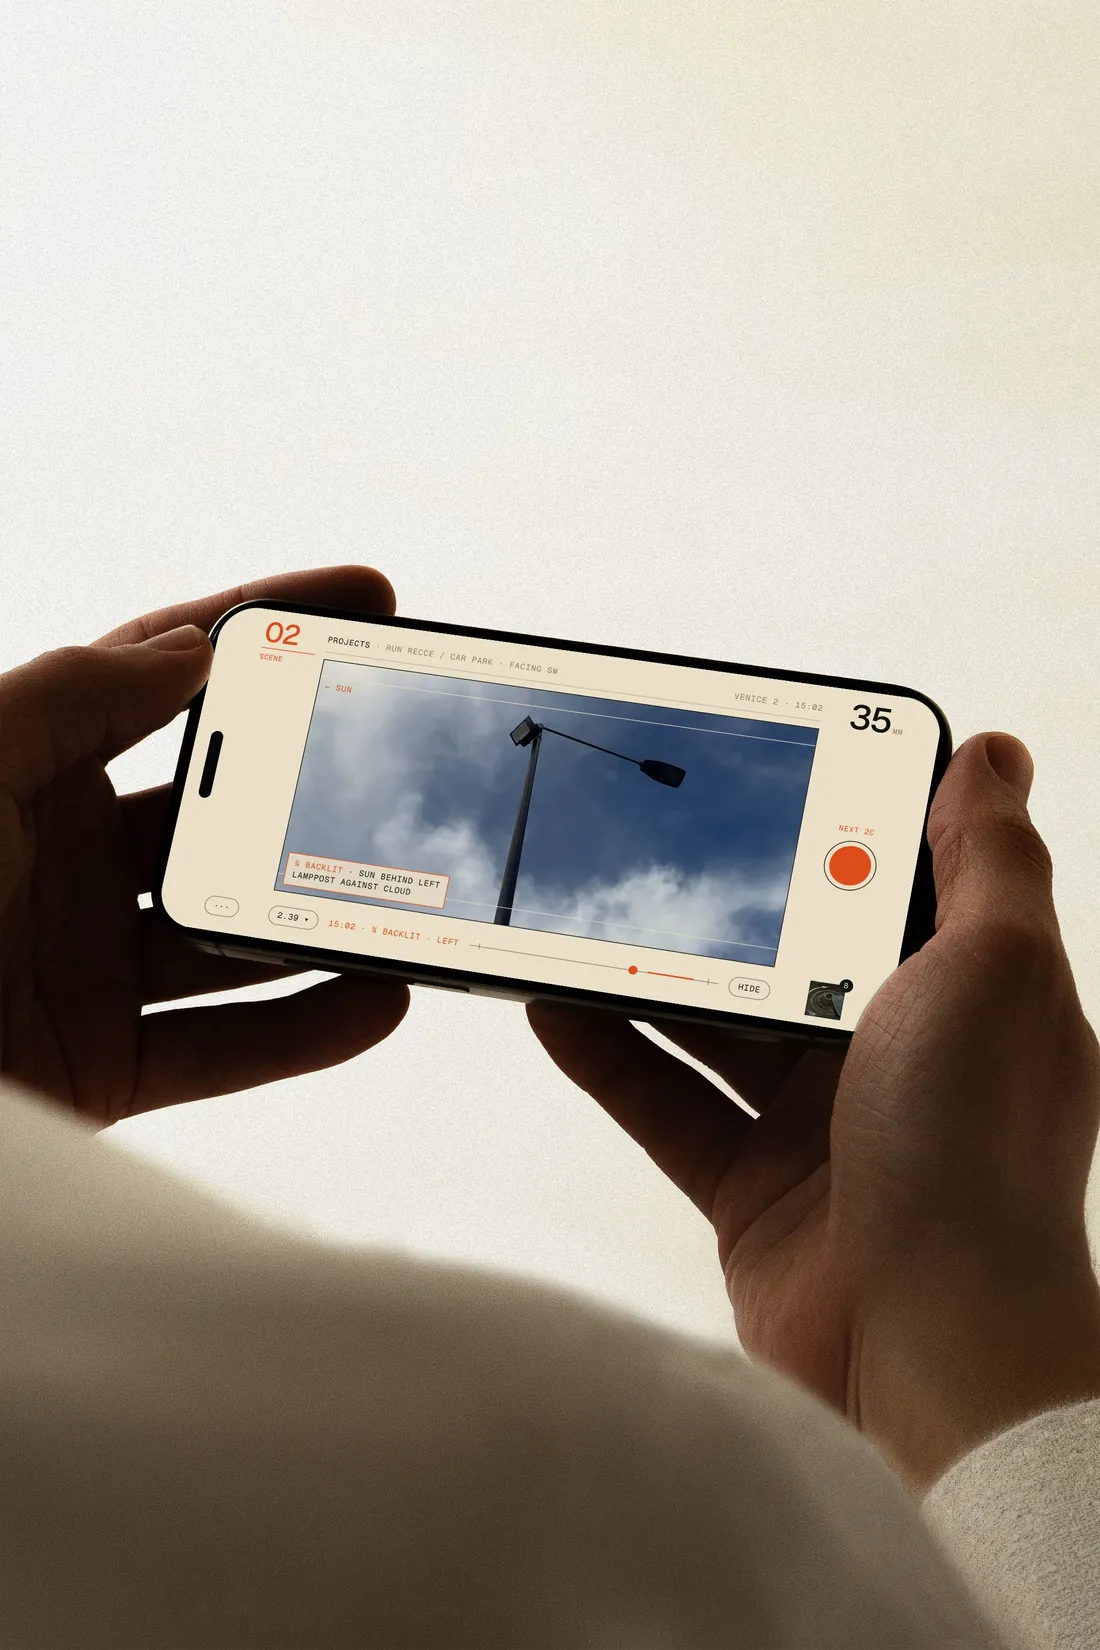
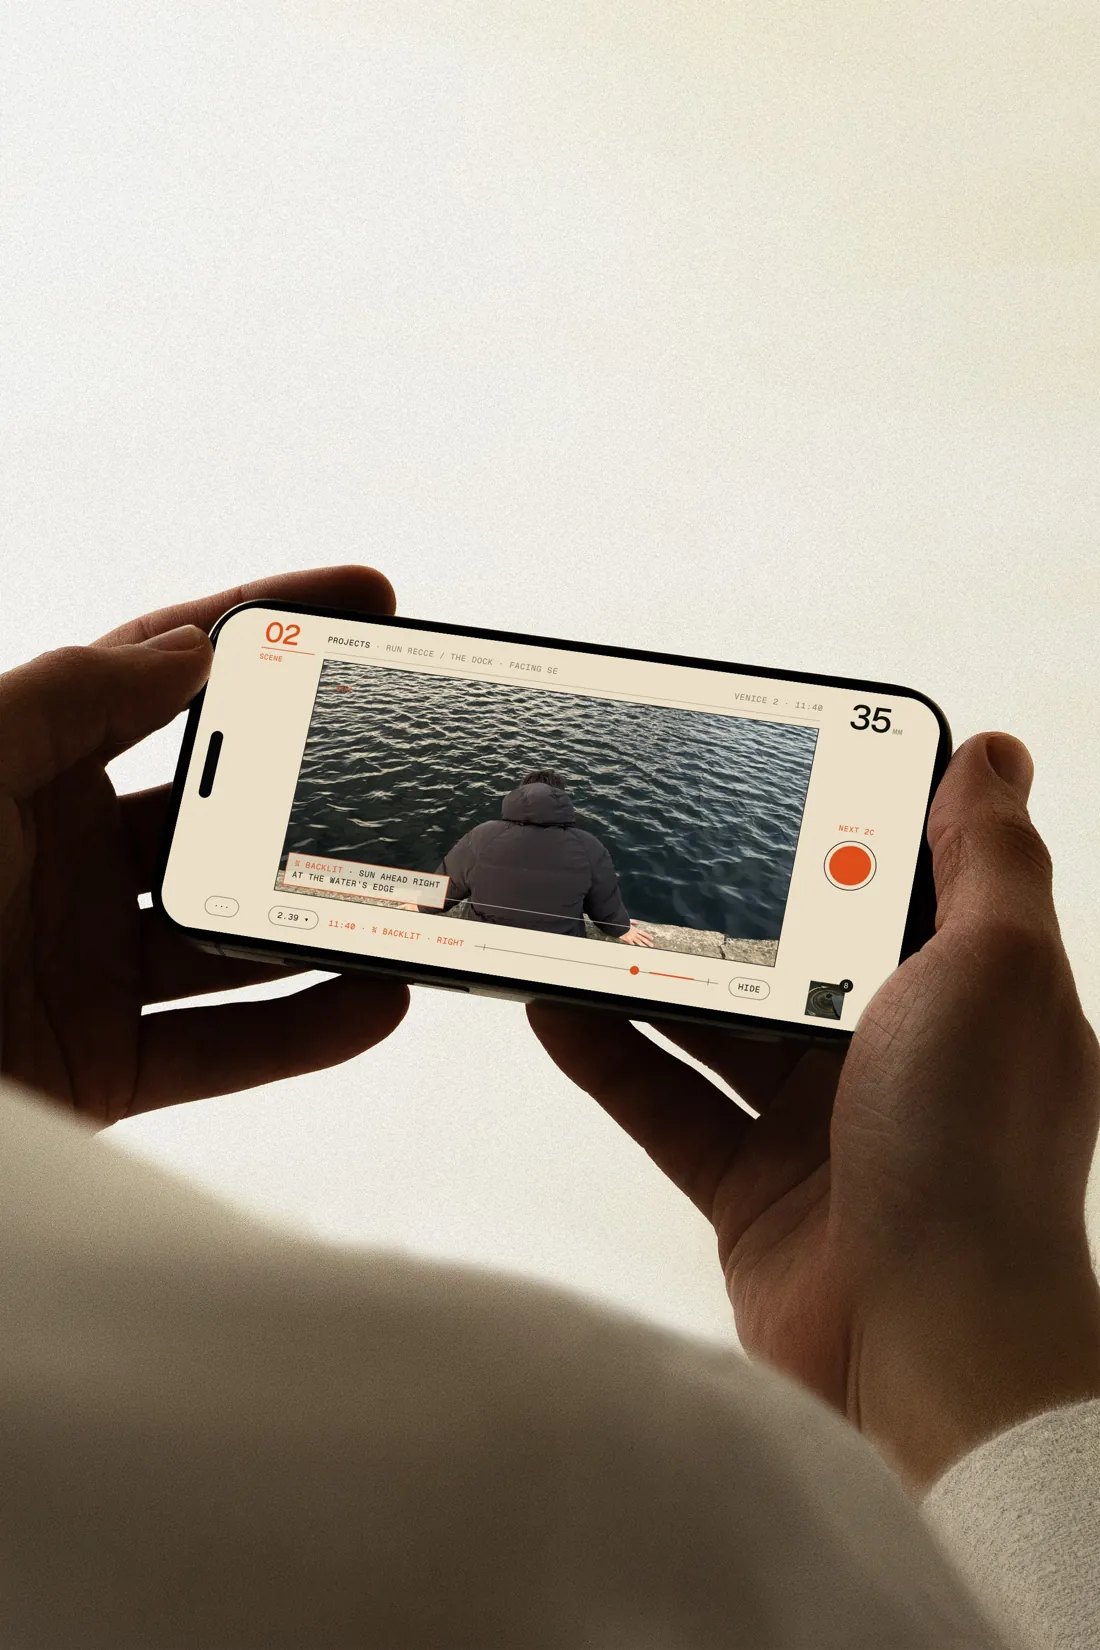
O&S preview: more mockup variety, Simple/Detailed on phones (#278)
* Preview: Out & Scout site in the 1.1 paper look

Claude-Session: https://claude.ai/code/session_01WU34tcMVhkrTaHNpy6ux3Z

* Out & Scout 1.1 site preview: plain scroll, Elliot's copy, real recce stills with faces blurred

Claude-Session: https://claude.ai/code/session_01WU34tcMVhkrTaHNpy6ux3Z

* Out & Scout preview: use only the 15 recce photos Elliot sent

Claude-Session: https://claude.ai/code/session_01WU34tcMVhkrTaHNpy6ux3Z

* Out & Scout preview: onboarding layout, Simple/Detailed wipe, hero still, app loops, hotspots

Claude-Session: https://claude.ai/code/session_01WU34tcMVhkrTaHNpy6ux3Z

* Out & Scout preview: sleeker pass (no outlines, soft screens, dot rail, dark tips)

Claude-Session: https://claude.ai/code/session_01WU34tcMVhkrTaHNpy6ux3Z

* O&S 1.1 preview: no hero photo or tap dots, slow scroll camera

Claude-Session: https://claude.ai/code/session_01WU34tcMVhkrTaHNpy6ux3Z

* O&S preview: Apple-style product page (mockup shots, pinned phone plays with scroll)

Claude-Session: https://claude.ai/code/session_01WU34tcMVhkrTaHNpy6ux3Z

* O&S preview: water's-edge camera mockup, Simple/Detailed on two phones

Claude-Session: https://claude.ai/code/session_01WU34tcMVhkrTaHNpy6ux3Z

---------

Changed region(s): [[0.2473, 0.4018, 0.7418, 0.5873]]

diff --git a/preview/out-and-scout-12/index.html b/preview/out-and-scout-12/index.html
@@ -99,11 +99,9 @@ h1,h2,h3{font-family:var(--num);font-weight:600;margin:0;text-wrap:balance}
 .head .lab{display:block;margin-bottom:16px}
 
 /* Simple or Detailed */
-.doc{display:grid;justify-items:center}
+.doc{display:grid;justify-items:center;text-align:center}
 /* 04: the same page, Simple on the left, Detailed on the right; drag the line */
-.doc .wipe{position:relative;width:min(100%,600px);min-width:min(100%,320px);text-align:left;justify-self:center;margin-top:34px;container-type:inline-size;touch-action:pan-y;user-select:none;-webkit-user-select:none;cursor:ew-resize}
-.wipe .pg{--u:calc(100cqw / 440);position:relative;background:#FBFAF6;box-shadow:0 1px 0 var(--line),0 24px 50px -28px rgba(21,21,19,.35);aspect-ratio:440/470;overflow:hidden;padding:calc(var(--u)*22) calc(var(--u)*22) 0;font-size:calc(var(--u)*9.5);line-height:1.35;color:var(--ink)}
-.wipe .pg.det{position:absolute;inset:0;clip-path:inset(0 0 0 var(--x,50%))}
+.pv .pg{text-align:left;--u:calc(100cqw / 440);position:relative;background:#FBFAF6;box-shadow:0 1px 0 var(--line),0 24px 50px -28px rgba(21,21,19,.35);aspect-ratio:440/470;overflow:hidden;padding:calc(var(--u)*22) calc(var(--u)*22) 0;font-size:calc(var(--u)*9.5);line-height:1.35;color:var(--ink)}
 .pg .hd{display:flex;justify-content:space-between;align-items:baseline;font-size:calc(var(--u)*8);letter-spacing:.08em;text-transform:uppercase;color:var(--grey)}
 .pg .hd b{font:400 calc(var(--u)*12) var(--num);letter-spacing:-.02em;text-transform:none;color:var(--ink)}
 .pg .tt{display:flex;align-items:flex-end;gap:calc(var(--u)*12);margin-top:calc(var(--u)*12);padding-bottom:calc(var(--u)*6);border-bottom:calc(var(--u)*1.2) solid var(--sun)}
@@ -126,15 +124,38 @@ h1,h2,h3{font-family:var(--num);font-weight:600;margin:0;text-wrap:balance}
 .pg .rw .bl .tm{font-variant-numeric:tabular-nums;font-size:calc(var(--u)*10.5)}
 .pg .chip{border:calc(var(--u)*.8) solid var(--sun);color:var(--sun);padding:calc(var(--u)*1) calc(var(--u)*4);font-size:calc(var(--u)*7.5);letter-spacing:.06em;text-transform:uppercase}
 .pg .fade{position:absolute;left:0;right:0;bottom:0;height:calc(var(--u)*46);background:linear-gradient(rgba(251,250,246,0),#FBFAF6 85%)}
-.wipe .tag{position:absolute;top:-28px;font:400 11px var(--mono);letter-spacing:.1em;text-transform:uppercase;color:var(--grey);transition:color .2s}
-.wipe .tag.l{left:0}.wipe .tag.r{right:0}
-.wipe .tag.on{color:var(--ink)}
-.wipe .bar{position:absolute;top:-8px;bottom:-8px;left:var(--x,50%);width:0;border-left:1.5px solid var(--sun);z-index:3}
-.wipe .knob{position:absolute;top:50%;left:0;width:44px;height:44px;margin:-22px 0 0 -22px;border-radius:50%;background:var(--sun);color:#fff;display:grid;place-items:center;font:500 14px var(--mono);box-shadow:0 6px 18px -6px rgba(226,83,31,.6);cursor:ew-resize}
-.wipe .knob:focus-visible{outline:2px solid var(--ink);outline-offset:3px}
 
-.wipe .pg{border-radius:6px}
-.wipe .knob{width:38px;height:38px;margin:-19px 0 0 -19px;font-size:12px}
+/* Simple or Detailed: the same recce on two phones (side by side on a wide screen, a switch on a phone) */
+.seg{display:inline-flex;gap:2px;padding:3px;border-radius:99px;background:rgba(21,21,19,.07);margin-bottom:28px}
+.seg button{appearance:none;border:0;background:none;font:500 14px var(--num);letter-spacing:-.01em;color:#55534d;padding:8px 18px;border-radius:99px;cursor:pointer;transition:background .25s,color .25s,box-shadow .25s}
+.seg button[aria-selected="true"]{background:var(--card);color:var(--ink);box-shadow:0 1px 3px rgba(21,21,19,.15)}
+.pair{display:grid;grid-template-columns:repeat(2,minmax(0,360px));gap:clamp(28px,5vw,72px);justify-content:center}
+.pp{margin:0;display:grid;gap:16px;justify-items:center;transition:opacity .5s,transform .7s var(--e)}
+.pp .lab{color:var(--ink)}
+.pph{position:relative;width:100%;aspect-ratio:1179/2556;border-radius:14%/6.5%;background:#1b1b1a;padding:3.2%;
+  box-shadow:inset 0 0 0 1.5px #5d5b56,inset 0 0 0 3px #111,0 0 0 1px #a7a49d,0 50px 80px -50px rgba(21,21,19,.55),0 20px 34px -26px rgba(21,21,19,.3)}
+.pph .di{position:absolute;top:4.6%;left:50%;width:30%;height:3.4%;transform:translateX(-50%);border-radius:99px;background:#000;z-index:3}
+.pph .ps{position:relative;width:100%;height:100%;border-radius:11.5%/5.3%;overflow:hidden;background:var(--paper);display:grid;grid-template-rows:auto auto 1fr auto;container-type:inline-size}
+.ps .sb{display:flex;justify-content:space-between;align-items:center;padding:4.2cqw 8cqw 0;height:13cqw;font:600 4.2cqw var(--num);letter-spacing:-.01em}
+.ps .sb span{font-size:2.6cqw;letter-spacing:.1em}
+.ps .ab{display:grid;grid-template-columns:1fr auto 1fr;align-items:center;padding:3cqw 5cqw;border-bottom:1px solid var(--line);font:400 3.2cqw var(--mono);letter-spacing:.04em;text-transform:uppercase;color:var(--grey)}
+.ps .ab b{font-weight:400;color:var(--ink)}
+.ps .ab .sh{justify-self:end;color:var(--sun);font-size:4cqw}
+.ps .pv{background:var(--tint);padding:5cqw 4cqw;overflow:hidden}
+.ps .pv .pg{aspect-ratio:auto;padding-bottom:calc(var(--u)*8);box-shadow:0 1px 0 var(--line),0 12px 24px -16px rgba(21,21,19,.3);border-radius:2px}
+.ps .pv .pg .fade{display:none}
+.ps .ft{padding:4cqw 5cqw 7cqw;background:var(--paper)}
+.ps .go{display:block;text-align:center;background:var(--sun);color:#fff;font:400 3.4cqw var(--mono);letter-spacing:.1em;text-transform:uppercase;padding:3.6cqw 0}
+.pv{container-type:inline-size}
+.pg{--u:calc(100cqw / 440)}
+@media (min-width:821px){.seg{display:none}}
+@media (max-width:820px){.pair{grid-template-columns:minmax(0,320px)}.pp:not(.on){display:none}.pp .lab{display:none}}
+.ps .pn{font:400 2.6cqw var(--mono);letter-spacing:.1em;color:var(--grey);text-align:center;padding:3cqw 0}
+.ps .pg2{background:#FBFAF6;padding:5cqw;box-shadow:0 1px 0 var(--line),0 12px 24px -16px rgba(21,21,19,.3);border-radius:2px}
+.ps .pg2 .hd{display:flex;justify-content:space-between;font:400 2.4cqw var(--mono);letter-spacing:.1em;text-transform:uppercase;color:var(--grey);margin-bottom:3cqw}
+.ps .pg2 .gr{display:grid;grid-template-columns:1fr 1fr;gap:2.4cqw}
+.ps .pg2 .gr span{aspect-ratio:4/3;background:var(--tint) center/cover}
+
 
 /* tiles */
 .bento{display:grid;grid-template-columns:repeat(6,minmax(0,1fr));gap:14px}
@@ -200,7 +221,7 @@ footer nav{display:flex;gap:18px}
 
 <section class="sec wrap" id="summary">
   <div class="max">
-    <div class="head rv"><span class="lab">Summary</span><h2>Detailed or simple,<br>you choose.</h2><p>Our summary document is made to be detailed or simple, whatever the job needs. Drag to compare.</p></div>
+    <div class="head rv"><span class="lab">Summary</span><h2>Detailed or simple,<br>you choose.</h2><p>Our summary document is made to be detailed or simple, whatever the job needs.</p></div>
     <div class="doc rv" id="doc"></div>
   </div>
 </section>
@@ -276,26 +297,18 @@ function DOC(){
     return '<div class="pg'+(det?' det':'')+'"'+(det?'':' aria-hidden="false"')+'><div class="hd"><b>Out &amp; Sc&middot;out</b><span>Run recce · '+(det?'Detailed':'Simple')+'</span></div>'+
       '<div class="tt"><span class="nn">01</span><span class="nm"><b>Docks</b><span class="k">18 Nov 2026 · Royal Docks'+(det?' · 51.5055N 0.0300E':'')+'</span></span></div>'+
       '<div class="band">'+band+'</div><div class="rows">'+rows+'</div><div class="fade"></div></div>';}
-  return '<div class="wipe" id="wipe" style="--x:50%"><span class="tag l">Simple</span><span class="tag r on">Detailed</span>'+page(false)+page(true)+
-    '<div class="bar"><span class="knob" role="slider" tabindex="0" aria-label="Drag to compare the Simple and Detailed summary" aria-valuemin="0" aria-valuemax="100" aria-valuenow="50">‹›</span></div></div>';
+  function ph(det){var nm=det?"Detailed":"Simple";return '<figure class="pp'+(det?'':' on')+'" data-k="'+nm+'"><div class="pph"><i class="di"></i><div class="ps">'+
+    '<div class="sb"><b>12:19</b><span>●●● ▮</span></div><div class="ab"><span>‹ Export</span><b>Docks · '+nm+'.pdf</b><span class="sh">↑</span></div>'+
+    '<div class="pv">'+page(det)+'<div class="pn">1 / 2</div><div class="pg2"><div class="hd"><span>Photos</span><span>'+nm+'</span></div><div class="gr">'+["1A","3A","5A","47A"].map(function(n){return '<span style="background-image:url('+SRC("sum-"+n)+')"></span>';}).join("")+'</div></div></div><div class="ft"><span class="go">Send '+nm+' PDF</span></div></div></div><figcaption class="lab">'+nm+'</figcaption></figure>';}
+  return '<div class="seg" role="tablist" aria-label="Summary style"><button role="tab" aria-selected="true" data-k="Simple">Simple</button><button role="tab" aria-selected="false" data-k="Detailed">Detailed</button></div><div class="pair">'+ph(false)+ph(true)+'</div>';
 }
 (function(){
-  var w=document.getElementById("wipe");if(!w)return;var k=w.querySelector(".knob"),tl=w.querySelector(".tag.l"),tr=w.querySelector(".tag.r"),x=50,drag=false,touched=false;
-  function set(v){x=Math.max(0,Math.min(100,v));w.style.setProperty("--x",x+"%");k.setAttribute("aria-valuenow",Math.round(x));tl.classList.toggle("on",x>55);tr.classList.toggle("on",x<45);}
-  function at(e){var r=w.getBoundingClientRect();set((e.clientX-r.left)/r.width*100);}
-  w.addEventListener("pointerdown",function(e){drag=true;touched=true;at(e);});
-  window.addEventListener("pointermove",function(e){if(drag)at(e);});
-  window.addEventListener("pointerup",function(){drag=false;});
-  k.addEventListener("keydown",function(e){if(e.key==="ArrowLeft"){set(x-5);e.preventDefault();}if(e.key==="ArrowRight"){set(x+5);e.preventDefault();}touched=true;});
-  /* one gentle sweep the first time it comes into view, so it reads as draggable */
-  if("IntersectionObserver" in window&&!matchMedia("(prefers-reduced-motion:reduce)").matches){
-    var io=new IntersectionObserver(function(es){es.forEach(function(en){if(!en.isIntersecting||touched)return;io.disconnect();
-      var t0=performance.now();(function step(t){if(touched)return;var p=Math.min(1,(t-t0)/2200);set(50+Math.sin(p*Math.PI*2)*28*(1-p*.3)*(p<1?1:0));if(p<1)requestAnimationFrame(step);else set(50);})(t0);});},{threshold:.6});
-    io.observe(w);}
+  var d=document.getElementById("doc");if(!d)return;var bs=[].slice.call(d.querySelectorAll(".seg button")),ps=[].slice.call(d.querySelectorAll(".pp")),touched=false;
+  function show(k){bs.forEach(function(b){b.setAttribute("aria-selected",b.dataset.k===k?"true":"false");});ps.forEach(function(p){p.classList.toggle("on",p.dataset.k===k);});}
+  bs.forEach(function(b){b.addEventListener("click",function(){touched=true;show(b.dataset.k);});});
+  /* on a phone only one shows at a time; it swaps once by itself so the difference reads */
+  if("IntersectionObserver" in window&&!matchMedia("(prefers-reduced-motion:reduce)").matches){var io=new IntersectionObserver(function(es){if(es[0].isIntersecting){io.disconnect();setTimeout(function(){if(!touched)show("Detailed");},1800);}},{threshold:.5});io.observe(d);}
 })();
-
-/* app clips play with your scroll: scroll down and the app moves forward, scroll up and it rewinds.
-   Under reduced motion they stay as stills. */
 
 
 /* the phone stays put; scroll position picks the feature and plays its clip forward or back */
